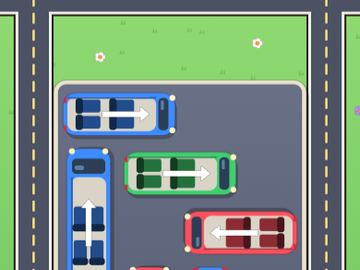
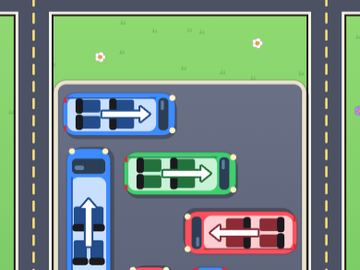
巴士：拎走紅白簷篷、車內地板用車色淺色、黑色椅背、箭嘴加深色邊

diff --git a/games/bus.js b/games/bus.js
@@ -277,7 +277,7 @@
           const x = tr() * W, y = T + tr() * (H - T);
           g.beginPath(); g.moveTo(x - 3, y); g.lineTo(x - 1, y - 6); g.lineTo(x, y); g.lineTo(x + 2, y - 5); g.lineTo(x + 3, y); g.fill();
         }
-        // station platform: cream tiles + striped awning
+        // station platform: cream tiles
         gr = g.createLinearGradient(0, 0, 0, qH);
         gr.addColorStop(0, '#fff6e2'); gr.addColorStop(1, '#f4ddb6');
         g.fillStyle = gr; g.fillRect(0, 0, W, qH);
@@ -286,15 +286,6 @@
         for (let x = 13; x < W; x += 26) { g.moveTo(x, 12); g.lineTo(x, qH - 6); }
         g.moveTo(0, qH * 0.62); g.lineTo(W, qH * 0.62);
         g.stroke();
-        const sw = 20;
-        for (let x = 0, k = 0; x < W; x += sw, k++) {
-          g.fillStyle = k % 2 ? '#fff4e4' : '#ff6b57';
-          g.beginPath(); g.moveTo(x, 0); g.lineTo(x + sw, 0); g.lineTo(x + sw, 2);
-          g.arc(x + sw / 2, 2, sw / 2, 0, Math.PI); g.closePath(); g.fill();
-        }
-        g.beginPath();
-        for (let x = 0; x < W; x += sw) { g.moveTo(x + sw, 2); g.arc(x + sw / 2, 2, sw / 2, 0, Math.PI); }
-        g.lineWidth = 2; g.strokeStyle = OL; g.stroke();
         // platform edge (yellow safety strip)
         g.fillStyle = '#c9a678'; g.fillRect(0, qH - 7, W, 7);
         g.fillStyle = '#ffd34d'; g.fillRect(0, qH - 5, W, 3);
@@ -445,7 +436,7 @@
         g.fillStyle = col; g.fill(); olStroke(g, lw);
         const rim = Wd * 0.1;
         U.rr(g, -Lp / 2 + rim, -Wd / 2 + rim, Lp - Lp * 0.17 - rim, Wd - rim * 2, rad * 0.6);
-        g.fillStyle = '#d9d4c7'; g.fill();
+        g.fillStyle = masked ? '#d9dbe2' : U.shade(col, 0.72); g.fill();
         g.fillStyle = dark; g.fillRect(-Lp / 2 + rim, -Wd / 2 + rim, Lp - Lp * 0.17 - rim, Wd * 0.04);
         // windshield at the nose
         const wsx = Lp / 2 - Lp * 0.15, wsw = Lp * 0.09;
@@ -461,7 +452,7 @@
         U.rr(g, -Lp / 2 + 1, Wd * 0.26, 3, Wd * 0.14, 1.5); g.fill();
         // seats: cushion + backrest; a seated passenger shows head and shoulders
         const cw = Lp * 0.6 / (b.cap / 2), sh = Wd * 0.3;
-        const seatCol = masked ? '#7d8392' : U.shade(col, -0.45), backCol = masked ? '#4a4f5c' : U.shade(col, -0.72);
+        const seatCol = masked ? '#7d8392' : U.shade(col, -0.45), backCol = '#1a1a1e';
         for (let i = 0; i < b.cap; i++) {
           seatLocal(b, i, Lp, Wd, tmp2);
           const sx = tmp2[0], sy = tmp2[1];
@@ -484,7 +475,7 @@
           g.moveTo(ax + al / 2, 0); g.lineTo(ax + al / 2 - aw * 1.2, -aw); g.lineTo(ax + al / 2 - aw * 1.2, -aw * 0.38);
           g.lineTo(ax - al / 2, -aw * 0.38); g.lineTo(ax - al / 2, aw * 0.38); g.lineTo(ax + al / 2 - aw * 1.2, aw * 0.38); g.lineTo(ax + al / 2 - aw * 1.2, aw);
           g.closePath();
-          g.lineJoin = 'round'; g.lineWidth = lw * 1.1; g.strokeStyle = OL; g.stroke();
+          g.lineJoin = 'round'; g.lineWidth = lw * 1.3; g.strokeStyle = masked ? '#3a3150' : U.shade(col, -0.45); g.stroke();
           g.fillStyle = '#ffffff'; g.fill();
         }
         if (masked) {

diff --git a/sw.js b/sw.js
@@ -1,6 +1,6 @@
 // Offline cache: everything is precached on first visit, then served cache-first.
 // Each visit also refreshes the cache in the background, so updates show up on the next open.
-const CACHE = 'mg-v10';
+const CACHE = 'mg-v11';
 const GAMES = ['bus', 'water', 'zombie', 'crowd', 'parking', 'screw', 'blocks', 'arrows', 'triple', 'pins', 'pixel', 'fruit', 'stack', 'tangle', 'bricks',
   'runner', 'hole', 'survivor', 'bubble', 'snake', 'helix', 'knife', 'bullet', 'merge', 'paper', 'flow', 'ninja', 'piano', 'g2048', 'jumper', 'multiply'];
 const FILES = ['./', 'index.html', 'style.css', 'core.js', 'manifest.json', 'icon-180.png', 'icon-192.png', 'icon-512.png']
